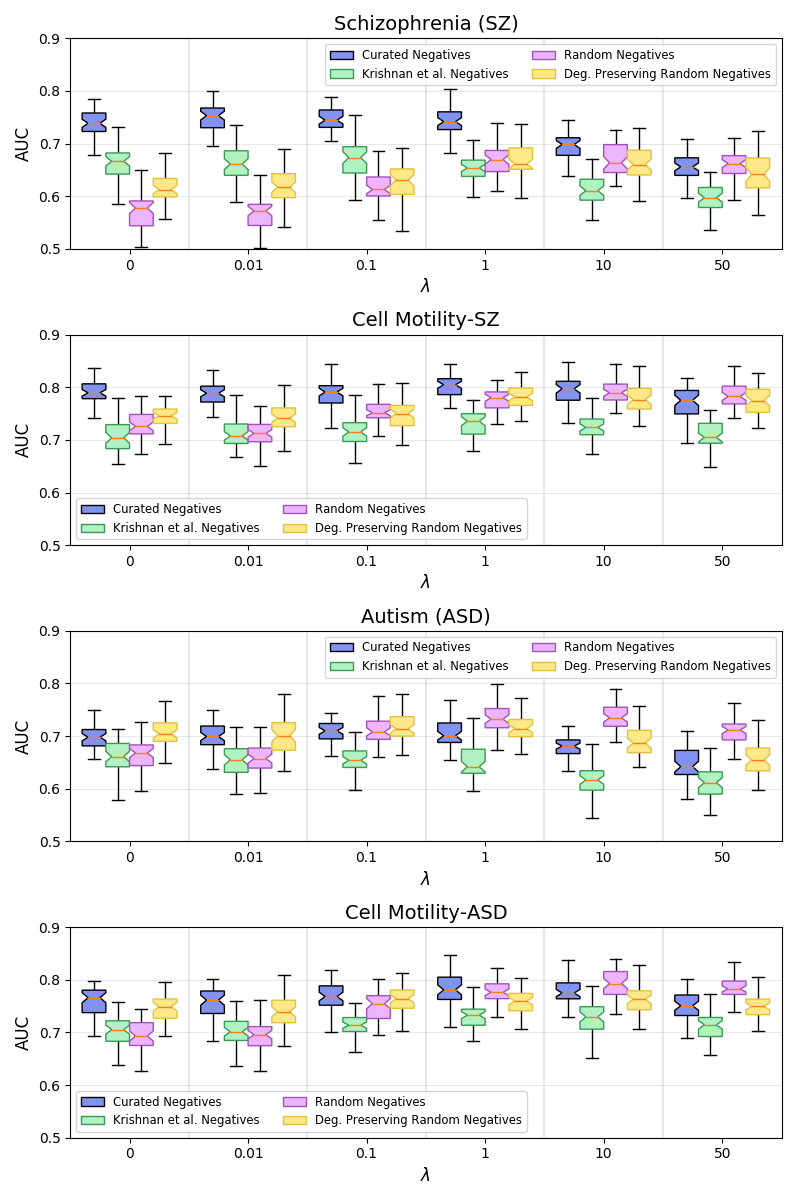
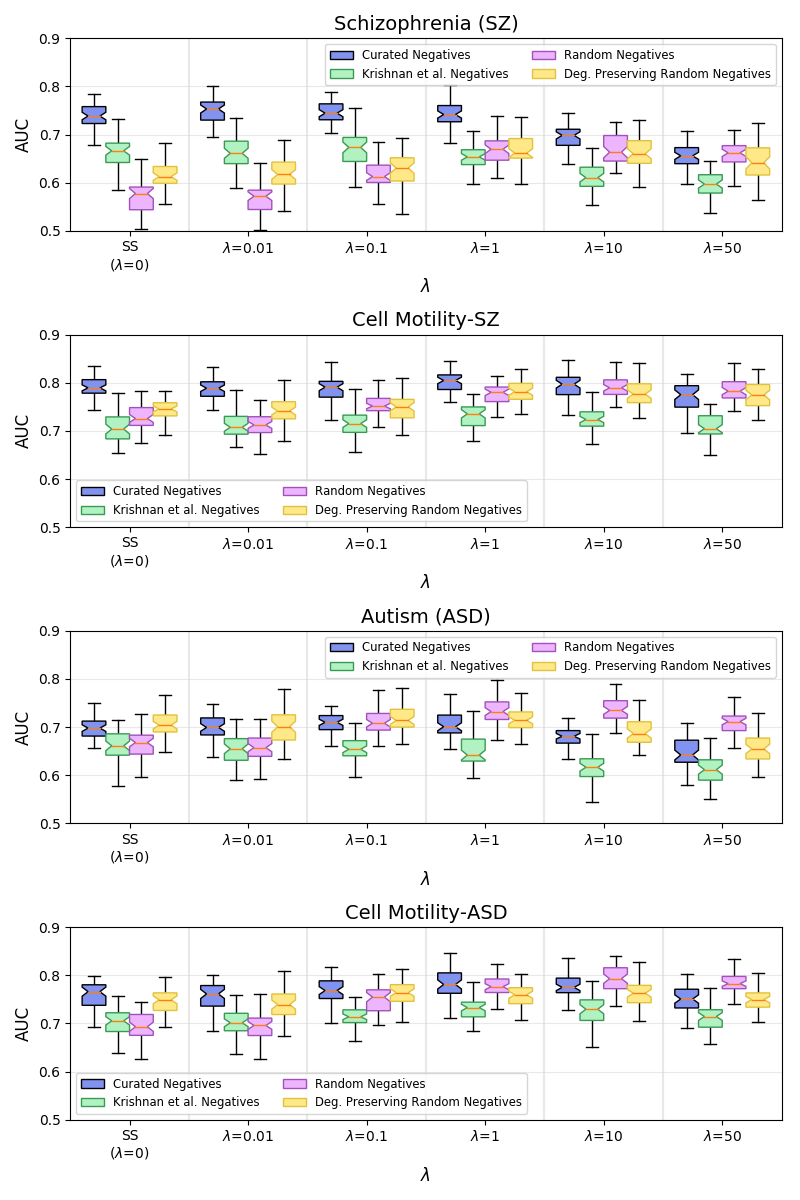
updated chartmaker.py

diff --git a/source/code/chartmaker.py b/source/code/chartmaker.py
@@ -3,6 +3,7 @@ import numpy as np
 import scipy.stats as stats 
 import sys
 import os 
+import itertools
 
 #SET USE_SD=False to get Error is IRQ, not standard deviation
 USE_SD=True
@@ -55,7 +56,10 @@ def main():
     figure_3(data,best_lambda_inds) ## All layers, best lambda for each layer/experiment.
     '''
 
-    
+    figure_2_full(data) ## Negs vs. NoNegs vs. RandNegs vs. RandNegsPreserveDegree vs. KrishnanNegs, Layer=1, varying lambda
+    figure_2(data)
+    sys.exit()
+
     deg_dist_fig('0',ymax=500)
     deg_dist_fig('0.01',ymax=500)
     deg_dist_fig('0.1',ymax=500)
@@ -69,17 +73,20 @@ def main():
     figure_3_full(data) ## All layers, all lambdas
     sinksource_fig(data)
     roc_fig(data)
-    figure_2_full(data) ## Negs vs. NoNegs vs. RandNegs vs. RandNegsPreserveDegree vs. KrishnanNegs, Layer=1, varying lambda
+    
 
     
+    ss_scatter_fig(500,'0')
+    os.system('mv ../outfiles/ss_scatter_fig_0.pdf ../outfiles/ss_scatter_fig_0_noymax.pdf')
+    os.system('mv ../outfiles/ss_scatter_fig_0.png ../outfiles/ss_scatter_fig_0_noymax.png')
     ss_scatter_fig(500,'0',2000)
     ss_scatter_fig(500,'0.01',2000)
     ss_scatter_fig(500,'0.1',2000)
     ss_scatter_fig(500,'1',2000)
-    ss_scatter_fig(500,'10')
-    ss_scatter_fig(500,'50')
+    ss_scatter_fig(500,'10',2000)
+    ss_scatter_fig(500,'50',2000)
     
-    
+
     return
 
 
@@ -367,6 +374,7 @@ def ss_scatter_fig(num,l,ymax=None):
     os.system('pdfcrop '+OUTFILE_DIR+prefix+'.pdf '+OUTFILE_DIR+prefix+'.pdf')
     return
 
+
 def sinksource_fig(data):
     sig = {} # asterisks
     with open(OUTFILE_DIR+'sinksource_fig.txt', 'w') as out:
@@ -381,8 +389,17 @@ def sinksource_fig(data):
                     sig[disease].append(j+1)
                 else: 
                     res = ''
-                out.write('Welch\'s t-test Lambda=%s (negs vs. no-negs): %s\n\tt-value: %.4f\n\tp-value: %.2e (%.4f)\n' % (LAMBDAS[j],res,t_value,p_value,p_value))
+                out.write('Welch\'s t-test Lambda=%s (negs vs. no-negs): %s\n\tno-neg mean: %.4f\n\tt-value: %.4f\n\tp-value: %.2e (%.4f)\n' % (LAMBDAS[j],res,mean(data[disease+'_no_neg'][1][j]),t_value,p_value,p_value))
             out.write('\n')
+        out.write('----- pairs of SS experiments -----\n')
+        for e1,e2 in itertools.combinations(['SZ','CM_SZ','ASD','CM_ASD'],2):
+            print(e1,e2)
+            t_value,p_value = stats.ttest_ind(data[e1][1][0],data[e2][1][0],equal_var=False)
+            if p_value < 0.01:
+                res = 'SIGNIFICANT (two-tailed, 0.01)'
+            else:
+                res = ''
+            out.write('Welch\'s t-test SS (%s vs %s): %s\n\tt-value: %.4f\n\tp-value: %.2e (%.4f)\n' % (e1,e2,res,t_value,p_value,p_value))
 
     fig2, ((ax1,ax2),(ax3,ax4)) = plt.subplots(ncols=2, nrows=2, figsize=(8,6))
     axes = [ax1,ax2,ax3,ax4]
@@ -520,79 +537,59 @@ def figure_1(data):
     return
 
 def figure_2(data):
-    
-    with open(OUTFILE_DIR+'Neg_vs_NoNeg_statistical_tests.txt', 'w') as out:
-        
-        for disease in ['SZ','CM_SZ','ASD','CM_ASD']:
-            out.write('--- %s ---\n' % (disease))
-            for j in range(len(LAMBDAS)): 
-                # U, p_value = stats.mannwhitneyu(neg_lists[i][j], no_neg_lists[i][j], alternative='two-sided')
-                t_value,p_value = stats.ttest_ind(data[disease][1][j], data[disease+'_no_neg'][1][j], equal_var=False)
-                if t_value > 0 and p_value/2 < 0.01:
-                    res = 'SIGNIFICANT (one-tailed, 0.01)'
-                else: 
-                    res = ''
-                out.write('Welch\'s t-test Lambda=%s (negs vs. no-negs): %s\n\tt-value: %.4f\n\tp-value: %.2e (%.4f)\n' % (LAMBDAS[j],res,t_value,p_value,p_value))
-            out.write('\n')
 
-        out.write('Two-way ANOVA\n')
-        organized_data_1=[data[exp][1] for exp in EXPERIMENTS]
-        organized_data_2=[data[exp+'_no_neg'][1] for exp in EXPERIMENTS]
-        for i in range(len(organized_data_1)):
-            if i == 0:
-                out.write('Schizophrenia\t')
-            if i == 1:
-                out.write('Cell Motility-SZ\t')
-            if i == 2:
-                out.write('ASD\t')
-            if i == 3:
-                out.write('Cell Motility-ASD\t')
-        
-            out.write('\tssq\tdf\tF\tPR(>F)\n')
+    ## SS negative analysis
 
-            two_way_ANOVA_results=two_way_ANOVA(organized_data_1[i], organized_data_2[i])
-            for j in range(len(two_way_ANOVA_results)):
-                if j == 0:
-                    name = 'Including Negatives\t'
-                elif j == 1:
-                    name = 'sinksource constant\t'
-                else:
-                    name = 'Interaction\t'
-                for k in range(len(two_way_ANOVA_results[j])):
-                    name=name+str(two_way_ANOVA_results[j][k])+'\t'
-                name=name+'\n'
-                out.write(name)
-            out.write('\n')
-
-    fig2, ((ax1,ax2),(ax3,ax4)) = plt.subplots(ncols=2, nrows=2, figsize=(8,6))
-    axes = [ax1,ax2,ax3,ax4]
+    fig2, axes = plt.subplots(ncols=4, nrows=1, sharey=True, figsize=(10,4))
     for i in range(len(EXPERIMENTS)):
         name = EXPERIMENTS[i]
         ax = axes[i]
-        bp1 = ax.boxplot(data[name][1], notch=True, positions=[2,7,12,17,22,27], widths=1.5, sym='', \
-            patch_artist=True, boxprops=dict(facecolor='#8193ef'))
-        bp2 = ax.boxplot(data[name+'_no_neg'][1], notch=True, positions=[4,9,14,19,24,29], widths=1.5, sym='', \
-            patch_artist=True, boxprops=dict(facecolor='#b0f2c2',color='#3A9A54'))
-        ax.yaxis.grid(True, linestyle='-', which='major', color='lightgrey', alpha=0.5)
-        
-        ax.set_title(NAMES[name],fontsize=TITLE_SIZE)
-        ax.set_xticks([3,8,13,18,23,28])
-        ax.set_xticklabels(['0','0.01','0.1','1','10','50'])
-        ax.set_xlim(0,31)
-        ax.set_ylim(0.5,0.9)
-        ax.set_ylabel('AUC',fontsize=LABEL_SIZE)
-        ax.set_xlabel('$\lambda$',fontsize=LABEL_SIZE)
-        
-        if i == 0:
-            ax.legend([bp1['boxes'][0], bp2['boxes'][0]], ['With Negatives', 'Without Negatives'], loc='best', fontsize=TICK_SIZE)
-    
-    plt.tight_layout()
-    plt.savefig(OUTFILE_DIR+'compare_neg_noneg.png')
-    print('Created '+OUTFILE_DIR+'compare_neg_noneg.png')
 
-    plt.savefig(OUTFILE_DIR+'compare_neg_noneg.pdf')
-    print('Created '+OUTFILE_DIR+'compare_neg_noneg.pdf')
-    os.system('pdfcrop '+OUTFILE_DIR+'compare_neg_noneg.pdf '+OUTFILE_DIR+'compare_neg_noneg.pdf')
+        bp1 = ax.boxplot(data[name][1][0], notch=True, positions=[1], widths=.9, sym='', \
+            patch_artist=True, boxprops=dict(facecolor='#8193ef'))
+        bp2 = ax.boxplot(data[name+'_old_neg'][1][0], notch=True, positions=[2], widths=.9, sym='', \
+            patch_artist=True, boxprops=dict(facecolor='#b0f2c2',color='#3A9A54'))
+        bp3 = ax.boxplot(data[name+'_rand_neg'][1][0], notch=True, positions=[3,], widths=.9, sym='', \
+            patch_artist=True, boxprops=dict(facecolor='#eeb5ff',color='#A152B8'))
+        bp4 = ax.boxplot(data[name+'_rand_neg_deg'][1][0], notch=True, positions=[4], widths=.9, sym='', \
+            patch_artist=True, boxprops=dict(facecolor='#FFE888',color='#E1C23E'))
+        ax.yaxis.grid(True, linestyle='-', which='major', color='lightgrey', alpha=0.5)
+
+        sig_x = []
+        sig_y = []
+        negs_to_check = [name+'_old_neg',name+'_rand_neg',name+'_rand_neg_deg']
+        for j in range(len(negs_to_check)):
+            t_value,p_value = stats.ttest_ind(data[name][1][0], data[negs_to_check[j]][1][0], equal_var=False)
+            if t_value > 0 and p_value/2 < 0.01:
+                sig_x.append(j+2)
+                sig_y.append(0.85)
+        ax.plot(sig_x,sig_y,'*k')
+
+        for x in [5,10,15,20,25]:
+            ax.plot([x,x],[0.5,0.9],color='lightgrey',alpha=0.5)
+        ax.set_title(NAMES[name],fontsize=TITLE_SIZE)
+        ax.set_xticks([])
+        #ax.set_xticklabels(['Curated','Krishnan et al.','Random','Random\n(Deg. Pres.)'])
+        ax.set_xlim(0,5)
+        ax.set_ylim(0.5,0.9)
+        if i==0:
+            ax.set_ylabel('AUC',fontsize=LABEL_SIZE)
+        #ax.set_xlabel('Negative Set',fontsize=LABEL_SIZE)
+        box = ax.get_position()
+        ax.set_position([box.x0, box.y0 + box.height * 0.1, box.width, box.height * 0.9])
+        
+        if i==0:
+            handles = [bp1['boxes'][0], bp2['boxes'][0], bp3['boxes'][0], bp4['boxes'][0]]
+            leg_names = ['Curated Negatives', 'Krishnan et al. Negatives', 'Random Negatives', 'Degree-Preserving\nRandom Negatives']
+            lgd = ax.legend(handles, leg_names, ncol=4, fontsize='small',bbox_to_anchor=(2.3,-.1),loc='center')
+    
+    #plt.tight_layout()
+    plt.savefig(OUTFILE_DIR+'compare_rand_negs_SS.png', bbox_extra_artists=(lgd,axes[0],axes[1],axes[2],axes[3]), bbox_inches='tight',bbox_pad=1)
+    print('Created '+OUTFILE_DIR+'compare_rand_negs_SS.png')
+
+    plt.savefig(OUTFILE_DIR+'compare_rand_negs_SS.pdf', bbox_extra_artists=(lgd,axes[0],axes[1],axes[2],axes[3]), bbox_inches='tight',bbox_pad=1)
+    print('Created '+OUTFILE_DIR+'compare_rand_negs_SS.pdf')
+    os.system('pdfcrop '+OUTFILE_DIR+'compare_rand_negs_SS.pdf '+OUTFILE_DIR+'compare_rand_negs_SS.pdf')
 
     return
 
@@ -743,7 +740,7 @@ def figure_2_full(data):
             ax.plot([x,x],[0.5,0.9],color='lightgrey',alpha=0.5)
         ax.set_title(NAMES[name],fontsize=TITLE_SIZE)
         ax.set_xticks([2.5,7.5,12.5,17.5,22.5,27.5])
-        ax.set_xticklabels(['0','0.01','0.1','1','10','50'])
+        ax.set_xticklabels(['SS\n($\lambda$=0)','$\lambda$=0.01','$\lambda$=0.1','$\lambda$=1','$\lambda$=10','$\lambda$=50'])
         ax.set_xlim(0,30)
         ax.set_ylim(0.5,0.9)
         ax.set_ylabel('AUC',fontsize=LABEL_SIZE)
